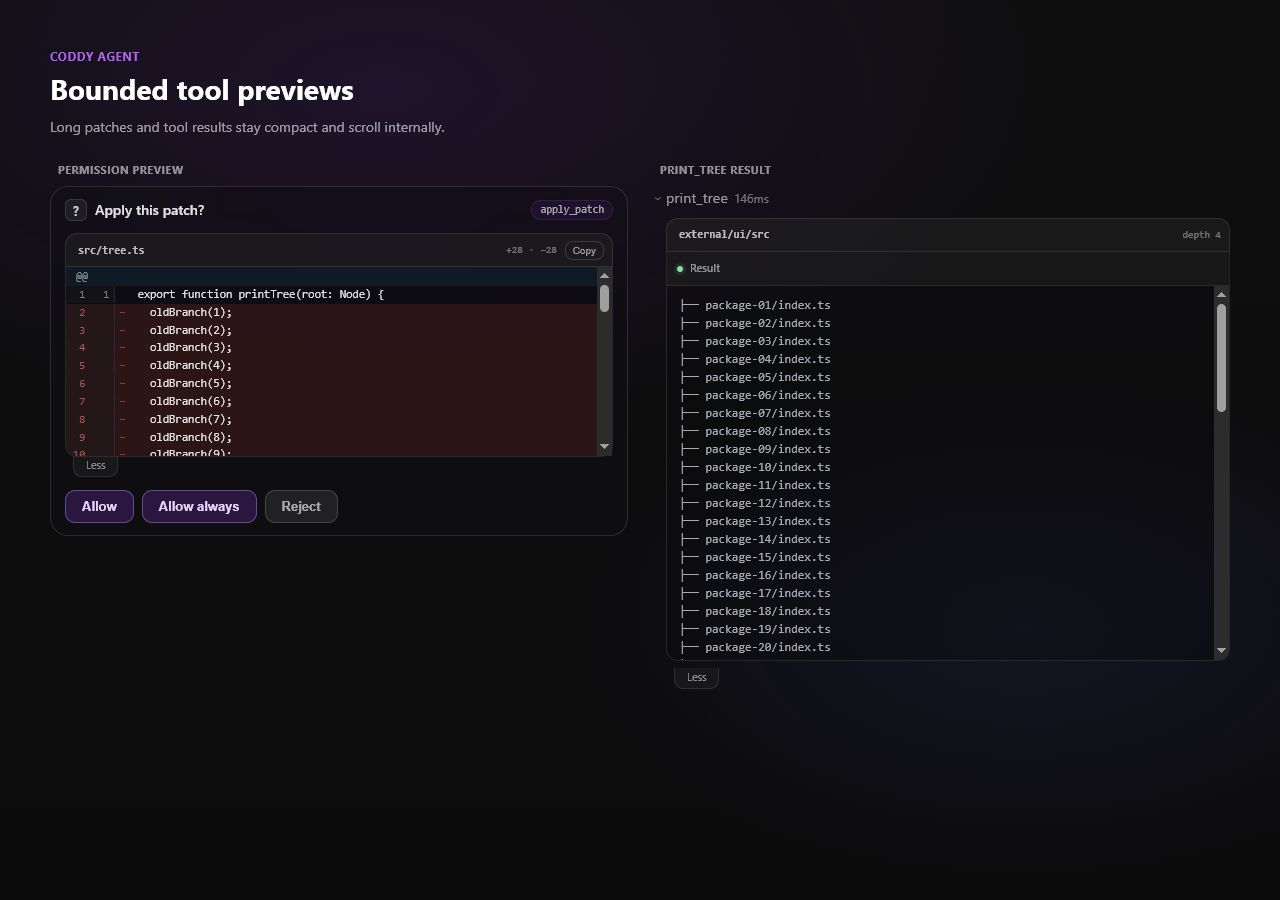
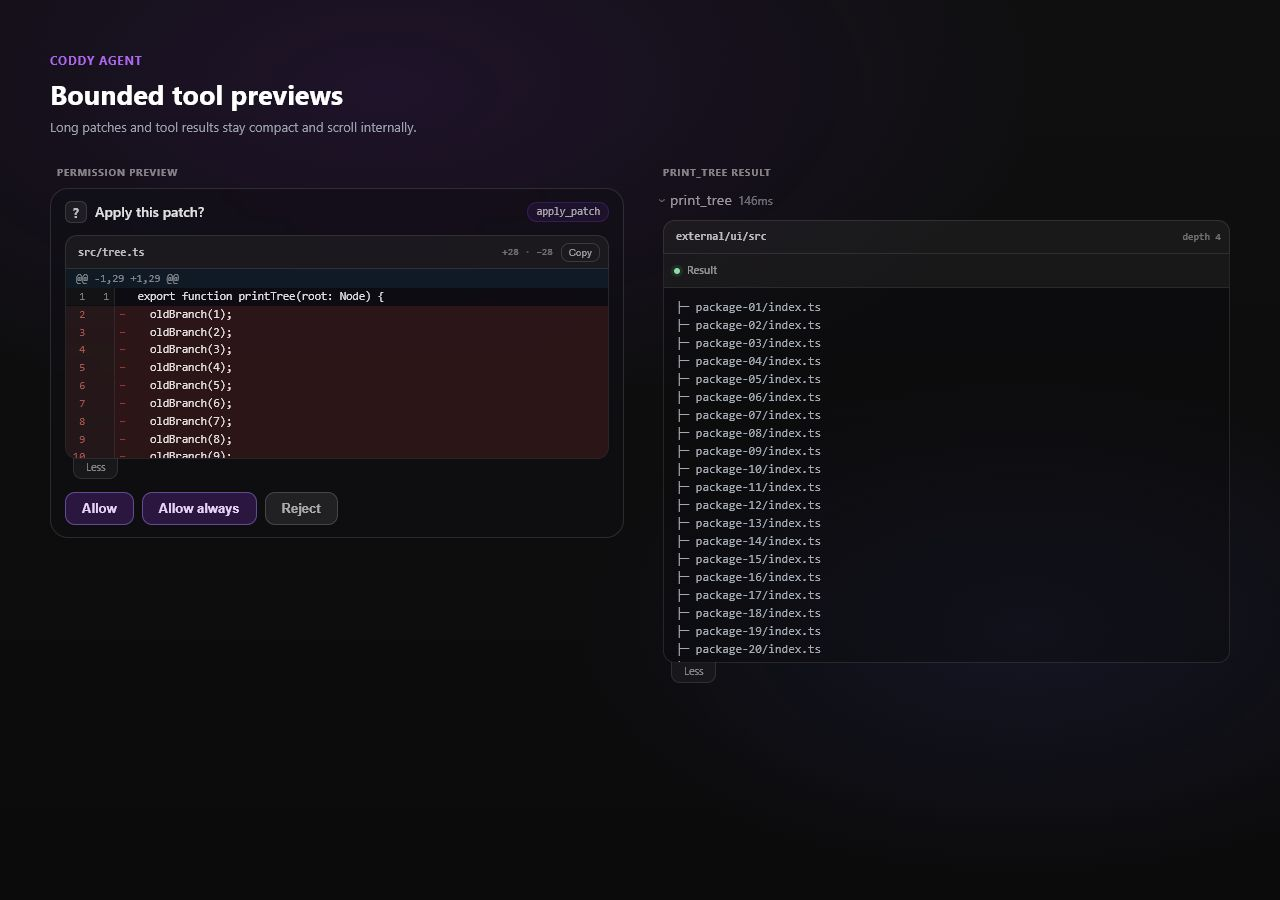
fix(ui): attach overflow controls to result cards

diff --git a/external/ui/src/styles.css b/external/ui/src/styles.css
@@ -2672,6 +2672,12 @@ a.rail-brand {
   margin: 0 0 2px;
 }
 
+.coddy-tool-call-body
+  > .tool-call-result-card
+  + .tool-result-toggle-row {
+  margin-top: -8px;
+}
+
 /* Diff-only body: body retains its padding (keeps correct left alignment with
    summary text), but the diff-block breaks out via negative margins so the
    diff rows sit edge-to-edge against the thinking-body border.  overflow:hidden

diff --git a/external/ui/src/ui/chat/permissionPromptPreviewCss.test.ts b/external/ui/src/ui/chat/permissionPromptPreviewCss.test.ts
@@ -53,11 +53,15 @@ test("expanded previews stay bounded and scroll internally", () => {
 test("overflow toggles are left-aligned and taller on mobile", () => {
   const css = cssText();
   const toggle = css.match(/\.tool-overflow-toggle\s*\{[^}]*\}/s);
+  const resultFooter = css.match(
+    /\.coddy-tool-call-body\s*>\s*\.tool-call-result-card\s*\+\s*\.tool-result-toggle-row\s*\{[^}]*\}/s,
+  );
   const mobile = css.match(
     /@media\s*\(max-width:\s*520px\)\s*\{[\s\S]*?\.tool-overflow-toggle\s*\{[^}]*\}/,
   );
 
   expect(toggle?.[0]).toMatch(/align-self:\s*flex-start/);
   expect(toggle?.[0]).toMatch(/margin:\s*-1px\s+0\s+0\s+8px/);
+  expect(resultFooter?.[0]).toMatch(/margin-top:\s*-8px/);
   expect(mobile?.[0]).toMatch(/min-height:\s*36px/);
 });

diff --git a/DESIGN.md b/DESIGN.md
@@ -240,7 +240,7 @@ Implementation lives in **`external/ui/src/ui/messages/ToolCallMessage.tsx`**.
 
 - **Layout** - Outer **`thinking-row coddy-tool-call-row`**; **`details`** uses **`thinking-details coddy-tool-details`**. **`summary.thinking-summary`** with **`thinking-left`** ( **`aria-label="Tool summary"`** ): **`thinking-chevron`**, **`thinking-label`** (tool title or kind, **`...`** suffix while **`pending`** / **`in_progress`** ), **`thinking-dur`** (**finished** durations from **`meta.json`**, **live elapsed** while in flight when **`startedAtMs`** is set, placeholder **`-`** when unknown). Transcript stacking uses **`messages-inner` `gap`** like other **`thinking-row`** blocks (avoid tool-only asymmetric margins). Expanded **`thinking-body coddy-tool-call-body`** is transparent and contains the shared **`PermissionToolPreview`** in non-interactive mode: the complete preview is visible, with no nested copy / More / approval buttons. A returned output follows in **`tool-call-result-card`** with a compact Result header and **`pre.tool-result-pre`** body (**always raw plaintext**, never the Markdown renderer).
 - **Viewport** - Truncated runs ( **`resultWasTruncated`** from list / SSE) also add **`tool-result-viewport tool-result-viewport--tall`**, clipped with **`tool-result-viewport--clip`** or scrollable with **`tool-result-viewport--scroll`** after **More…**. Short non-truncated runs omit **`--tall`** so height follows content (**no fake tall box or overflow-toggle row**).
-- **Controls** - **More…** (**`data-testid="tool-result-more"`**) and **Less** (**`data-testid="tool-result-less"`**) use the shared left-aligned **`tool-overflow-toggle`** tab button in **`tool-result-toggle-row`**, directly under the result panel. Phone layouts increase the button's minimum height to **36px** for a more comfortable touch target.
+- **Controls** - **More…** (**`data-testid="tool-result-more"`**) and **Less** (**`data-testid="tool-result-less"`**) use the shared left-aligned **`tool-overflow-toggle`** tab button in **`tool-result-toggle-row`**, attached flush to the result panel's bottom border. Phone layouts increase the button's minimum height to **36px** for a more comfortable touch target.
 - **Full body** - The SPA obtains the saved full string only via **GET `/coddy/sessions/{sessionId}/tool-calls/{toolCallId}`** (JSON **`result`** ). **`App.tsx`** wires **`onFetchToolCallFull`** to that endpoint and merges **`fullResultText`** into transcript state (**`external/ui/src/ui/App.tsx`** ).
 
 Tool call history is persisted per session under `tool_calls/` so it can be restored after restart.

diff --git a/docs/ui.md b/docs/ui.md
@@ -277,7 +277,7 @@ The chat transcript renders a flat list of UI message blocks. Each block has a `
   - A single tool execution row, same disclosure chrome as **thinking** / **memory** (**chevron**, **`thinking-label`** with the tool name or kind, **`thinking-dur`** for duration or **`-`**).
   - While **`pending`** or **`in_progress`**, the summary label uses a **`...`** suffix (for example **`read_file...`**). **`startedAtMs`** drives a live duration until the tool finishes.
   - When a structured preview and **Result** are both present, they touch and share the outer corners as one continuous execution card; there is no gap or duplicate border between them.
-  - Details reuse the permission card's tool-specific preview in a static mode: full diff / path / command content, but no copy, **More…**, or approval actions. **read**, **grep**, **glob**, and **print_tree** also receive compact structured argument previews; unknown tools keep a styled monospace fallback. The separate **Result** body is plain text only (rendered like **`<pre>`**, **no** Markdown pipeline). If **`resultPreviewTruncated`** is false / **`resultWasTruncated`** unset, there is no overflow toggle or fixed-height viewport (block height follows content). If truncated (19 content lines plus **`...`**), apply the capped viewport (~20 lines), with **overflow-y** hidden until **More…**. **More…** (**`data-testid="tool-result-more"`**) performs **GET `/coddy/sessions/{id}/tool-calls/{toolCallId}`**, then enables **overflow-y auto** at the same height and becomes **Less** (**`data-testid="tool-result-less"`**); **Less** restores the clipped preview without a second GET while **fullResultText** stays in memory. Both use the shared left-aligned **`tool-overflow-toggle`** button.
+  - Details reuse the permission card's tool-specific preview in a static mode: full diff / path / command content, but no copy, **More…**, or approval actions. **read**, **grep**, **glob**, and **print_tree** also receive compact structured argument previews; unknown tools keep a styled monospace fallback. The separate **Result** body is plain text only (rendered like **`<pre>`**, **no** Markdown pipeline). If **`resultPreviewTruncated`** is false / **`resultWasTruncated`** unset, there is no overflow toggle or fixed-height viewport (block height follows content). If truncated (19 content lines plus **`...`**), apply the capped viewport (~20 lines), with **overflow-y** hidden until **More…**. **More…** (**`data-testid="tool-result-more"`**) performs **GET `/coddy/sessions/{id}/tool-calls/{toolCallId}`**, then enables **overflow-y auto** at the same height and becomes **Less** (**`data-testid="tool-result-less"`**); **Less** restores the clipped preview without a second GET while **fullResultText** stays in memory. Both use the shared left-aligned **`tool-overflow-toggle`** tab button attached flush to the result panel's bottom border.
 
 ## Tool call card (bundled SPA, current)
 